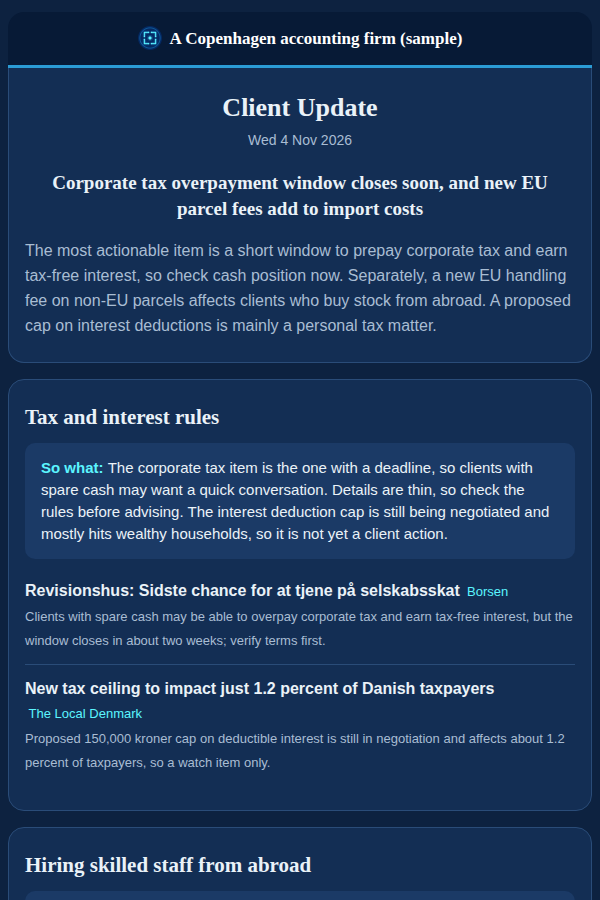
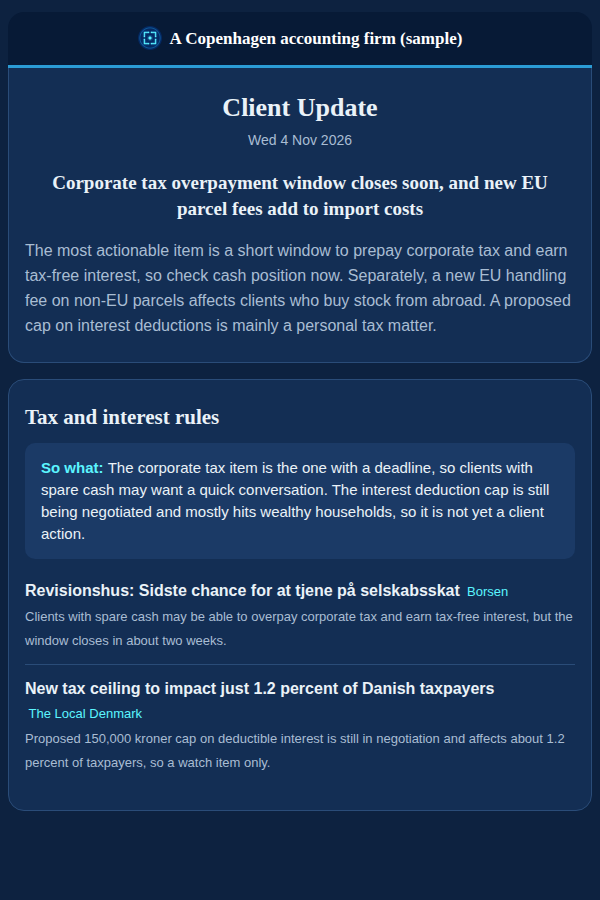
Samples: remove check-before-advising hedges from accounting and UX research examples

Changed region(s): [[0.03, 0.9333, 0.96, 1.0], [0.06, 0.5289, 0.93, 0.6222], [0.39, 0.6844, 0.54, 0.7156]]

diff --git a/samples/dk-accounting/index.html b/samples/dk-accounting/index.html
@@ -91,8 +91,8 @@
         style="background-color:#f9fcfe; border:1px solid #cfe0ec; border-radius:16px;
                padding:24px;">
     <h2 class="nl-h2 nl-head" style="margin:0; font-family:'Source Serif 4', Georgia, 'Times New Roman', serif; font-size:24px; line-height:30px; font-weight:600; color:#052961;">Tax and interest rules</h2>
-    <table role="presentation" width="100%" cellpadding="0" cellspacing="0" border="0" style="margin:12px 0 4px;"><tr><td class="nl-chip nl-ink" bgcolor="#e3eef7" style="background-color:#e3eef7; border-radius:10px; padding:14px 16px; font-size:15px; line-height:22px; color:#1d2c3d;"><b class="nl-accent" style="color:#0f5a9a;">So what: </b>The corporate tax item is the one with a deadline, so clients with spare cash may want a quick conversation. Details are thin, so check the rules before advising. The interest deduction cap is still being negotiated and mostly hits wealthy households, so it is not yet a client action.</td></tr></table>
-    <ul style="list-style:none; margin:8px 0 0; padding:0;"><li class="nl-line" style="margin:0; padding:12px 0; border-bottom:1px solid #cfe0ec;"><a href="https://borsen.dk/nyheder/okonomi/revisionshus-sidste-chance-for-at-tjene-pa-selskabsskat" style="color:#1d2c3d; font-weight:600; text-decoration:none;"><span class="nl-title-link">Revisionshus: Sidste chance for at tjene på selskabsskat</span></a><span class="nl-accent" style="font-size:13px; color:#0f5a9a; white-space:nowrap;"> &nbsp;Borsen</span><br><span class="nl-why" style="font-size:13px; line-height:19px; color:#47586b;">Clients with spare cash may be able to overpay corporate tax and earn tax-free interest, but the window closes in about two weeks; verify terms first.</span></li><li class="nl-line" style="margin:0; padding:12px 0;"><a href="https://www.thelocal.dk/20261103/new-tax-ceiling-to-impact-just-1-2-percent-of-danish-taxpayers" style="color:#1d2c3d; font-weight:600; text-decoration:none;"><span class="nl-title-link">New tax ceiling to impact just 1.2 percent of Danish taxpayers</span></a><span class="nl-accent" style="font-size:13px; color:#0f5a9a; white-space:nowrap;"> &nbsp;The Local Denmark</span><br><span class="nl-why" style="font-size:13px; line-height:19px; color:#47586b;">Proposed 150,000 kroner cap on deductible interest is still in negotiation and affects about 1.2 percent of taxpayers, so a watch item only.</span></li></ul>
+    <table role="presentation" width="100%" cellpadding="0" cellspacing="0" border="0" style="margin:12px 0 4px;"><tr><td class="nl-chip nl-ink" bgcolor="#e3eef7" style="background-color:#e3eef7; border-radius:10px; padding:14px 16px; font-size:15px; line-height:22px; color:#1d2c3d;"><b class="nl-accent" style="color:#0f5a9a;">So what: </b>The corporate tax item is the one with a deadline, so clients with spare cash may want a quick conversation. The interest deduction cap is still being negotiated and mostly hits wealthy households, so it is not yet a client action.</td></tr></table>
+    <ul style="list-style:none; margin:8px 0 0; padding:0;"><li class="nl-line" style="margin:0; padding:12px 0; border-bottom:1px solid #cfe0ec;"><a href="https://borsen.dk/nyheder/okonomi/revisionshus-sidste-chance-for-at-tjene-pa-selskabsskat" style="color:#1d2c3d; font-weight:600; text-decoration:none;"><span class="nl-title-link">Revisionshus: Sidste chance for at tjene på selskabsskat</span></a><span class="nl-accent" style="font-size:13px; color:#0f5a9a; white-space:nowrap;"> &nbsp;Borsen</span><br><span class="nl-why" style="font-size:13px; line-height:19px; color:#47586b;">Clients with spare cash may be able to overpay corporate tax and earn tax-free interest, but the window closes in about two weeks.</span></li><li class="nl-line" style="margin:0; padding:12px 0;"><a href="https://www.thelocal.dk/20261103/new-tax-ceiling-to-impact-just-1-2-percent-of-danish-taxpayers" style="color:#1d2c3d; font-weight:600; text-decoration:none;"><span class="nl-title-link">New tax ceiling to impact just 1.2 percent of Danish taxpayers</span></a><span class="nl-accent" style="font-size:13px; color:#0f5a9a; white-space:nowrap;"> &nbsp;The Local Denmark</span><br><span class="nl-why" style="font-size:13px; line-height:19px; color:#47586b;">Proposed 150,000 kroner cap on deductible interest is still in negotiation and affects about 1.2 percent of taxpayers, so a watch item only.</span></li></ul>
 </td></tr></table>
 </td></tr>
 <tr><td style="padding:0 0 16px;">

diff --git a/samples/ux-research/index.html b/samples/ux-research/index.html
@@ -79,7 +79,7 @@
     <p class="nl-muted" style="margin:6px 0 0; font-size:14px; line-height:20px; color:#47586b;
        text-align:center;">Wed 4 Nov 2026</p>
     <p class="nl-headline nl-ink" style="margin:20px 0 0; font-family:'Source Serif 4', Georgia, 'Times New Roman', serif; font-size:22px; line-height:30px; font-weight:600; color:#1d2c3d; text-align:center;">AI moderators and synthetic users: early data says use them for practice, not evidence</p>
-    <p class="nl-muted" style="margin:16px 0 0; font-size:16px; line-height:25px; color:#47586b;">The evidence on AI in research is turning cautious. A small trial shows participants say less to AI moderators, and practitioners report weak results on anything beyond simple studies. Synthetic users look more useful as rehearsal partners than as data. Check any AI method against real participants before selling it to clients.</p>
+    <p class="nl-muted" style="margin:16px 0 0; font-size:16px; line-height:25px; color:#47586b;">The evidence on AI in research is turning cautious. A small trial shows participants say less to AI moderators, and practitioners report weak results on anything beyond simple studies. Synthetic users look more useful as rehearsal partners than as data.</p>
 </td></tr></table>
 </td></tr>
 
